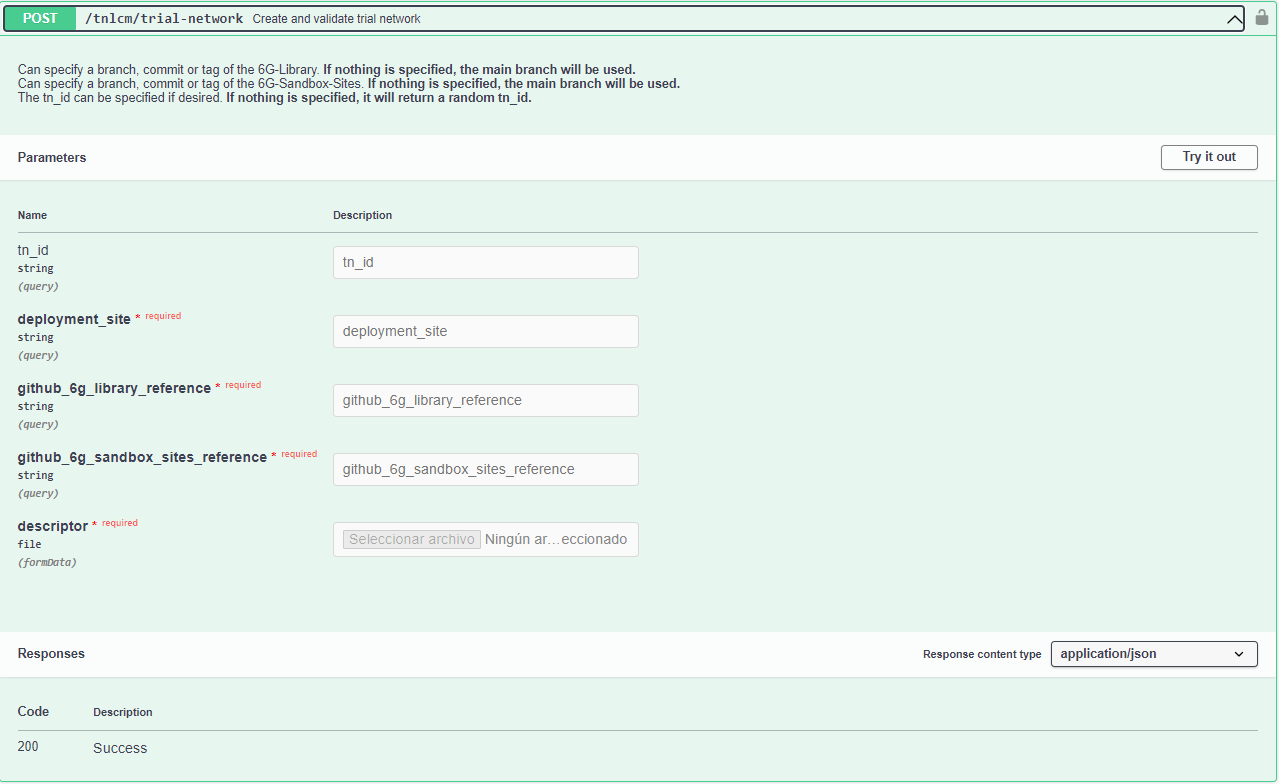
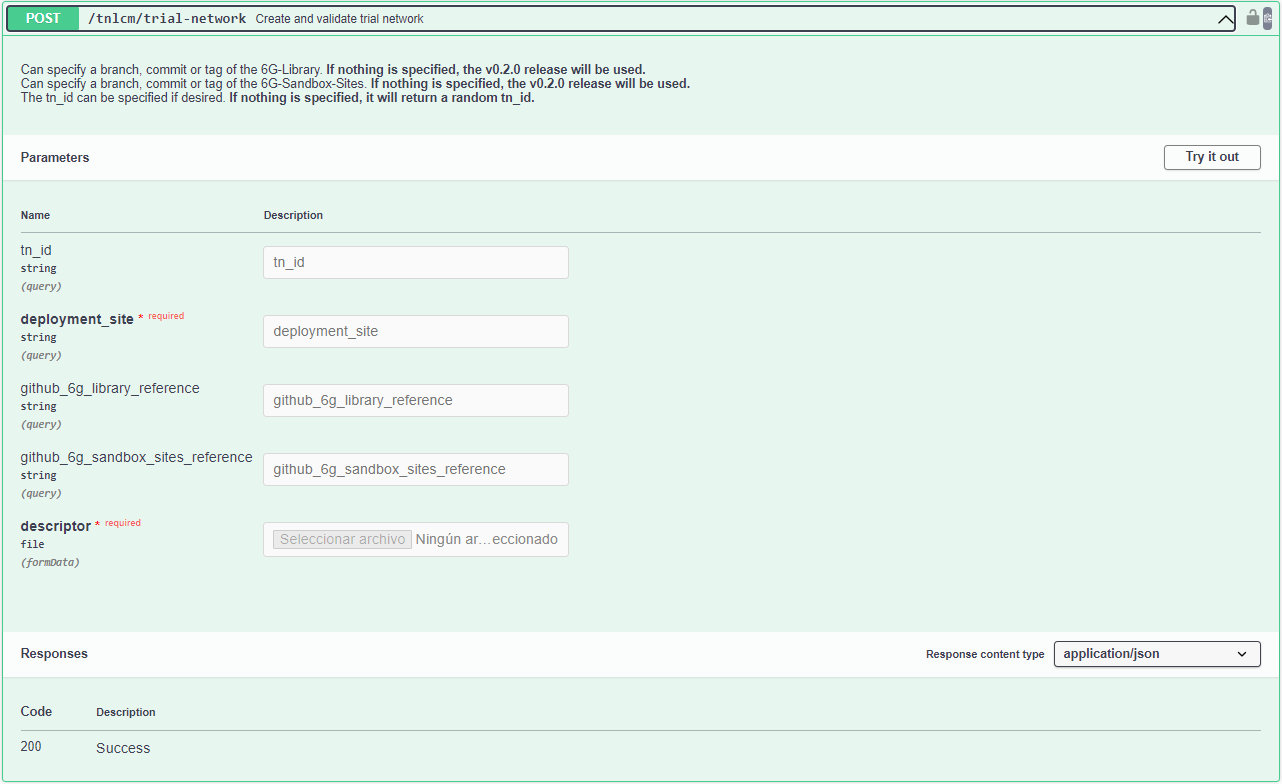
Update images README

diff --git a/docs/README.md b/docs/README.md
@@ -51,33 +51,32 @@ TNLCM has been designed as a modular application, with the intention of making c
 ## :open_file_folder: Project Structure
 
 ```
-TNLCM                        // main folder.
-├─ .github                   // folder contains files and templates for GitHub workflow automation.
-│  ├─ CHANGELOG_TEMPLATE     // folder with template for changelog.
-│  └─ ISSUE_TEMPLATE         // folder with template for issue reporting.
+TNLCM/                       // main folder.
+├─ .github/                  // folder contains files and templates for GitHub workflow automation.
+│  ├─ CHANGELOG_TEMPLATE/    // folder with template for changelog.
+│  └─ ISSUE_TEMPLATE/        // folder with template for issue reporting.
 ├─ .gitignore                // file specifying intentionally untracked files to ignore.
 ├─ app.py                    // main file that starts TNLCM.
 ├─ CHANGELOG.md              // file containing the changes made in each release.
-├─ descriptors               // folder in which trial network descriptors templates are stored.
+├─ descriptors/              // folder in which trial network descriptors templates are stored.
 ├─ docker-compose.yml        // file for create database.
-├─ docs                      // folder in which all documentation is stored.
+├─ docs/                     // folder in which all documentation is stored.
 ├─ requirements.txt          // file containing the libraries and their versions.
-├─ conf                      // folder that handler the configuration files.
-├─ core                      // folder in which the developed code is stored.
-│  ├─ auth                   // folder that handler the authentication of users who have access.
-│  ├─ callback               // folder that handler the results received by Jenkins.
-│  ├─ database               // folder that handler the connection with MongoDB database using mongoengine.
-│  ├─ exceptions             // folder that handler the creation of custom exceptions.
-│  ├─ jenkins                // folder that handler the connection with Jenkins for tn deployment.
-│  ├─ logs                   // folder that handler the logs configuration.
-│  ├─ mail                   // folder that handler the configuration to use flask_mail.
-│  ├─ models                 // folder that contains the database models.
-│  ├─ repository             // folder that handler the connection to any repository.
-│  ├─ routes                 // folder that handler the API that is exposed.
-│  ├─ sixg_library           // folder that handler the connection to the 6G-Library repository.
-│  ├─ sixg_sandbox_sites     // folder that handler the connection to the 6G-Sandbox-Sites repository.
-│  └─ temp                   // folder that handler the creation of temporary files.
-└─ tests                     // folder that contains files related to testing the code.
+├─ conf/                     // folder that handler the configuration files.
+└─ core/                     // folder in which the developed code is stored.
+   ├─ auth/                  // folder that handler the authentication of users who have access.
+   ├─ callback/              // folder that handler the results received by Jenkins.
+   ├─ database/              // folder that handler the connection with MongoDB database using mongoengine.
+   ├─ exceptions/            // folder that handler the creation of custom exceptions.
+   ├─ jenkins/               // folder that handler the connection with Jenkins for tn deployment.
+   ├─ logs/                  // folder that handler the logs configuration.
+   ├─ mail/                  // folder that handler the configuration to use flask_mail.
+   ├─ models/                // folder that contains the database models.
+   ├─ repository/            // folder that handler the connection to any repository.
+   ├─ routes/                // folder that handler the API that is exposed.
+   ├─ sixg_library/          // folder that handler the connection to the 6G-Library repository.
+   ├─ sixg_sandbox_sites/    // folder that handler the connection to the 6G-Sandbox-Sites repository.
+   └─ temp/                  // folder that handler the creation of temporary files.
 ```
 
 ## :mag: Overview of TNLCM and 6G-Library implementation
@@ -108,10 +107,10 @@ TNLCM is currently able to deploy the following types of components correspondin
 > [!TIP]
 > TNLCM uses the following repository branches:
 > 
-> | Repository       | Branch                                                                                   |
-> | ---------------- | ---------------------------------------------------------------------------------------- |
-> | 6G-Library       | [alt_architecture](https://github.com/6G-SANDBOX/6G-Library/tree/alt_architecture)       |
-> | 6G-Sandbox-Sites | [alt_architecture](https://github.com/6G-SANDBOX/6G-Sandbox-Sites/tree/alt_architecture) |
+> | Repository       | Release                                                                      |
+> | ---------------- | ---------------------------------------------------------------------------- |
+> | 6G-Library       | [v0.2.0](https://github.com/6G-SANDBOX/6G-Library/releases/tag/v0.2.0)       |
+> | 6G-Sandbox-Sites | [v0.2.0](https://github.com/6G-SANDBOX/6G-Sandbox-Sites/releases/tag/v0.2.0) |
 
 > [!WARNING]
 > In order to run TNLCM, the following tools are **required** to be deployed on the platforms:
@@ -235,7 +234,7 @@ trial_network:  # Mandatory, contains the description of all entities in the Tri
     type:  # 6G-Library component type
     name: # Custom name
     dependencies: # List of dependencies of the component with other components
-      - {type}-{name}
+      - type-name
       - ...
     input: # Dictionary with the variables collected from the input part of the 6G-Library
       key: value
@@ -315,25 +314,26 @@ The TNLCM database consists of several collections that store important informat
 
 #### Collection `trial_networks` <!-- omit in toc -->
 
-| Field                            | Description                                                                             |
-| -------------------------------- | --------------------------------------------------------------------------------------- |
-| `user_created`                   | The user who created the trial network.                                                 |
-| `tn_id`                          | The ID of the trial network.                                                            |
-| `tn_state`                       | The state of the trial network.                                                         |
-| `tn_date_created_utc`            | The date and time when the trial network was created (UTC).                             |
-| `tn_raw_descriptor`              | The raw descriptor of the trial network.                                                |
-| `tn_sorted_descriptor`           | The sorted descriptor of the trial network.                                             |
-| `tn_report`                      | The report related to the trial network.                                                |
-| `job_name`                       | The pipeline used for the deployment of the descriptor.                                 |
-| `deployment_site`                | The site where the trial network has been deployed.                                     |
-| `github_6g_library_branch`       | The reference of 6G-Library (branch, commit or tag) used to deploy trial network.       |
-| `github_6g_sandbox_sites_branch` | The reference of 6G-Sandbox-Sites (branch, commit or tag) used to deploy trial network. |
+| Field                               | Description                                                                             |
+| ----------------------------------- | --------------------------------------------------------------------------------------- |
+| `user_created`                      | The user that created the trial network.                                                |
+| `tn_id`                             | The ID of the trial network.                                                            |
+| `tn_state`                          | The state of the trial network.                                                         |
+| `tn_date_created_utc`               | The date and time when the trial network was created (UTC).                             |
+| `tn_raw_descriptor`                 | The raw descriptor of the trial network.                                                |
+| `tn_sorted_descriptor`              | The sorted descriptor of the trial network.                                             |
+| `tn_deployed_descriptor`            | The current status of descriptor with the last entity deployed of the trial network.    |
+| `tn_report`                         | The report related to the trial network.                                                |
+| `deployment_job_name`               | The pipeline used for the deployment of the descriptor.                                 |
+| `deployment_site`                   | The site where the trial network has been deployed.                                     |
+| `github_6g_library_reference`       | The reference of 6G-Library (branch, commit or tag) used to deploy trial network.       |
+| `github_6g_sandbox_sites_reference` | The reference of 6G-Sandbox-Sites (branch, commit or tag) used to deploy trial network. |
 
 #### Collection `trial_networks_templates` <!-- omit in toc -->
 
 | Field                  | Description                                                          |
 | ---------------------- | -------------------------------------------------------------------- |
-| `user_created`         | The user who created the trial network template.                     |
+| `user_created`         | The user that created the trial network template.                    |
 | `tn_id`                | The ID of the trial network template.                                |
 | `tn_date_created_utc`  | The date and time when the trial network template was created (UTC). |
 | `tn_raw_descriptor`    | The raw descriptor of the trial network template.                    |
